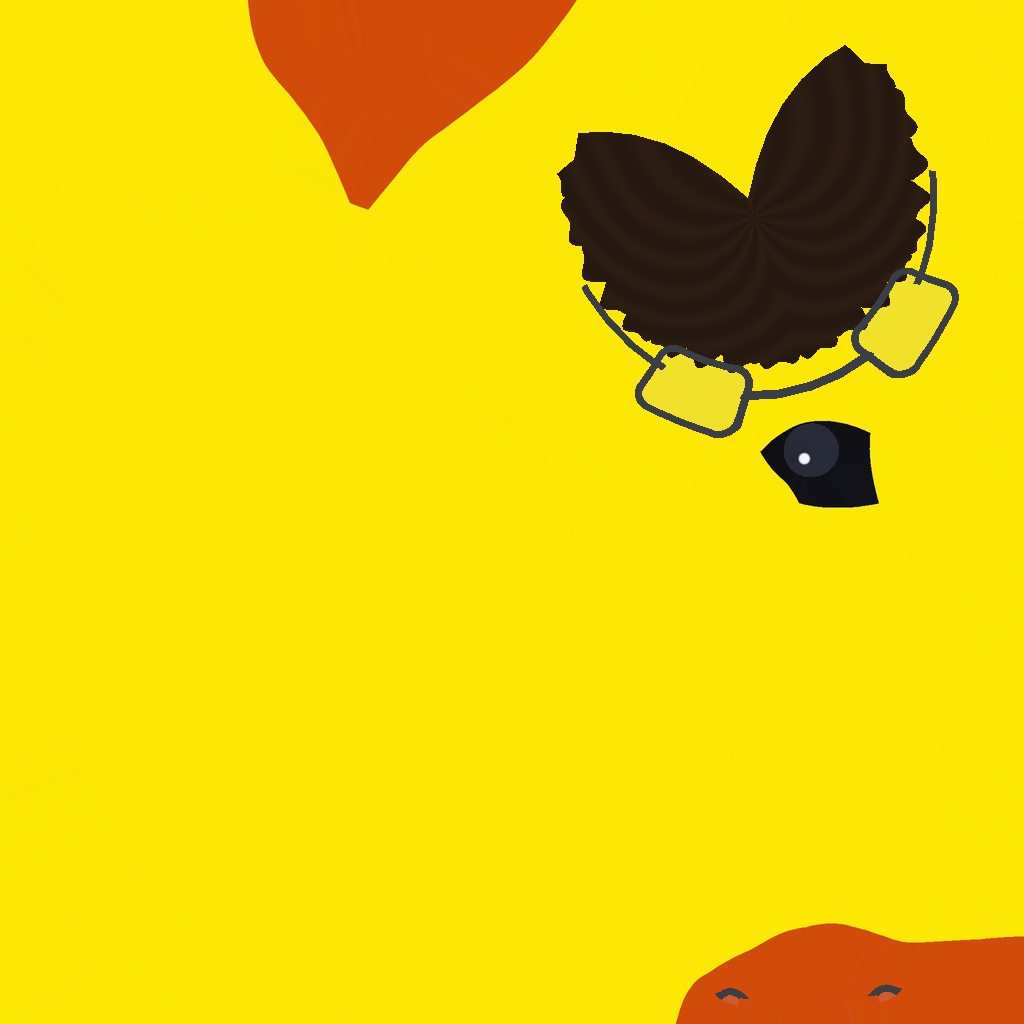
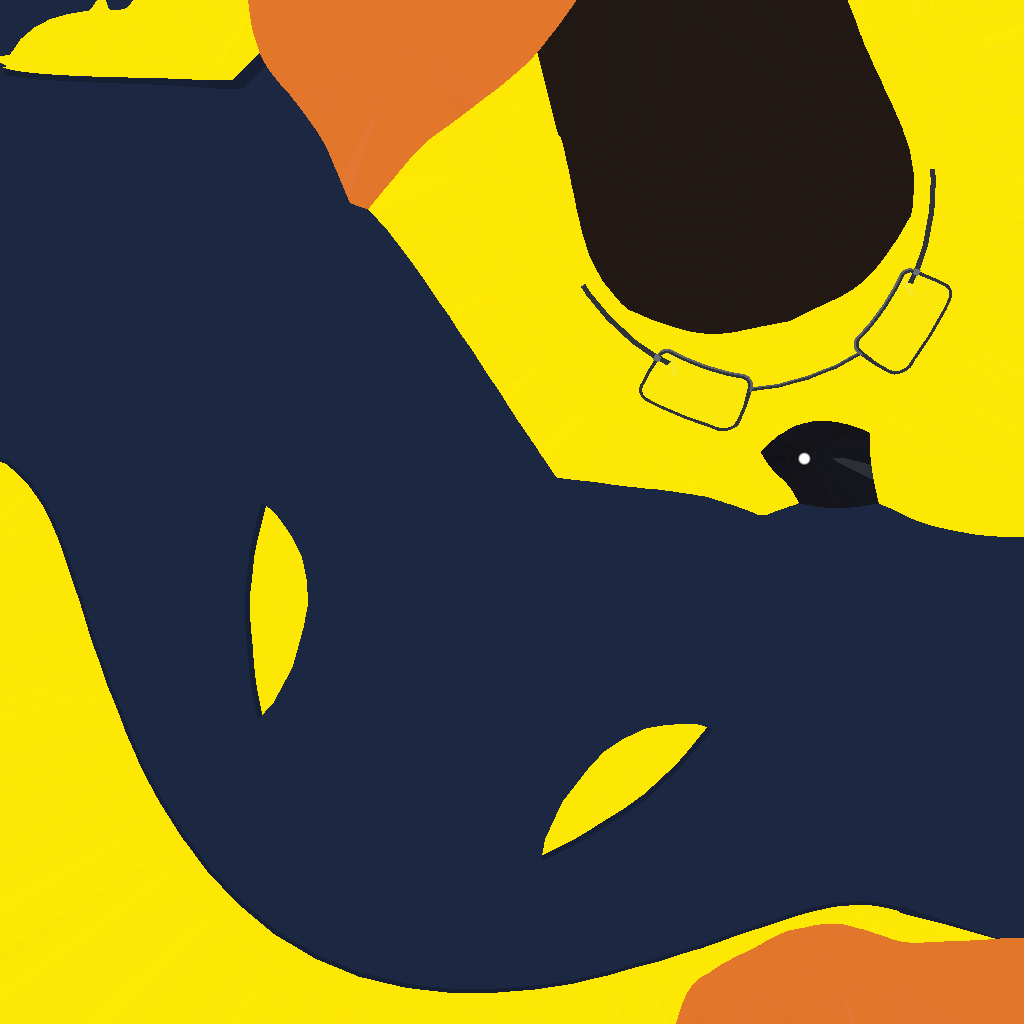
Give the duck of the dynamic texture example a forehead and a navy shirt.

diff --git a/examples/rendering/dynamic_texture.py b/examples/rendering/dynamic_texture.py
@@ -220,7 +220,7 @@ def main():
         gs.morphs.Plane(),
     )
     # The variants to switch between, named and each the size of the dynamic texture: the texture of the asset, a
-    # checkerboard, vertical stripes and the texture of the asset wearing glasses and hair
+    # checkerboard, vertical stripes and the texture of the asset wearing glasses, dark hair and a navy shirt
     width, height = TEXTURE_RESOLUTION
     cols, rows = np.arange(width) // 32, np.arange(height)[:, None] // 32
     is_checker_dark = (rows + cols) % 2 == 0
